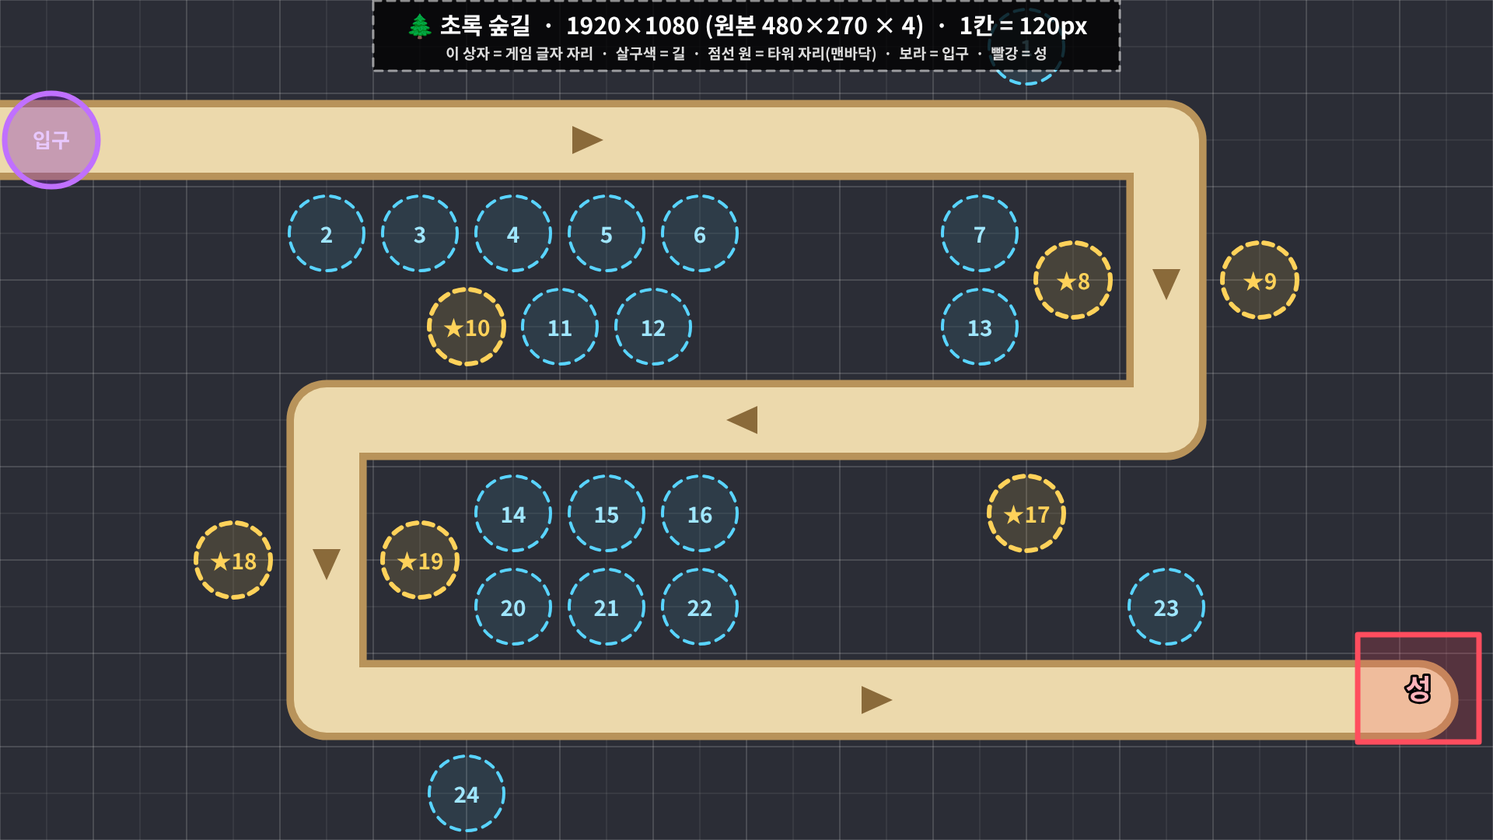
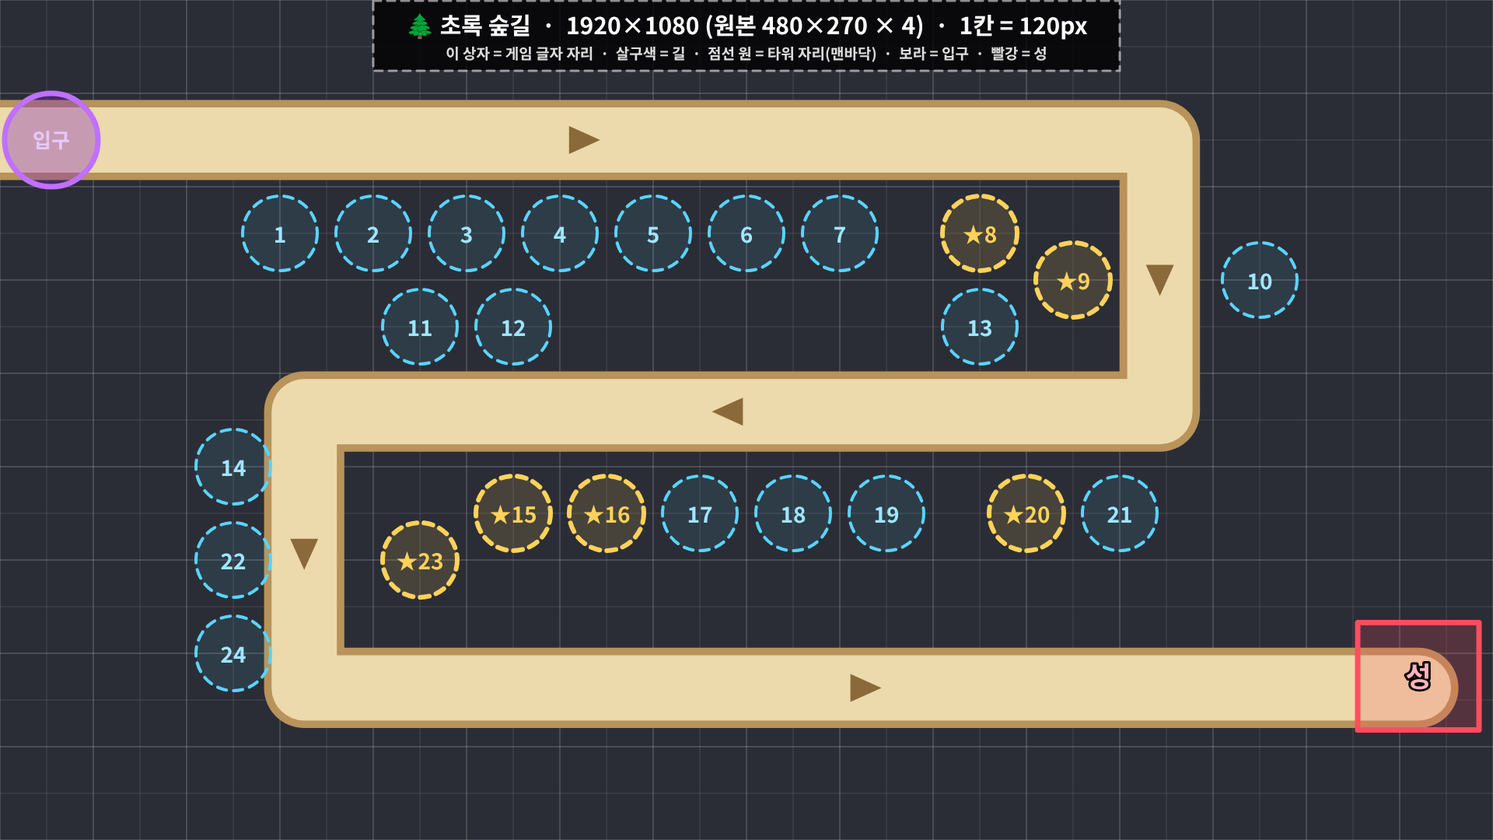
🏰 v0.9.14.1 타워 디펜스 지도 그림 5장: 그림 배경(manifest td) · 글자를 그림 속 어두운 상자 안에 · 숲길 길 좌표를 그림에 맞춤 · 글자 상자 · 성 · 입구 둘레엔 자리 안 만듦 · 폰 미니 지도도 그림 · 💎 결과 오기 전 지급 버그(이긴 판 1 → 3) · 저장 30초 확인
Claude-Session: https://claude.ai/code/session_014JJv1hHEwwWUnoDbUP4Pso

diff --git a/js/raid/td.js b/js/raid/td.js
@@ -171,21 +171,36 @@ DS.TD = (function () {
     const map = mapOf(f);
     el.innerHTML = `<div class="td-wrap"><div class="td-stage"><canvas class="td-bg"></canvas><div class="td-dom"></div><canvas class="td-fx"></canvas><div class="td-hud"></div><div class="td-big"></div></div></div>`;
     const h = { g: f.g, root: el.querySelector('.td-wrap'), map, el, R, f, mons: new Map(), tw: new Map(), cut: [], cutBusy: false };
-    h.stage = h.root.querySelector('.td-stage'); h.bg = h.root.querySelector('.td-bg'); h.fx = h.root.querySelector('.td-fx'); h.dom = h.root.querySelector('.td-dom'); h.hud = h.root.querySelector('.td-hud'); h.big = h.root.querySelector('.td-big');
-    const fit = () => { const W = el.clientWidth || 1280, Hh = el.clientHeight || 720, w = Math.min(W, Hh * 16 / 9); h.U = w / 16; h.stage.style.width = `${w}px`; h.stage.style.height = `${w * 9 / 16}px`; [h.bg, h.fx].forEach((c) => { c.width = Math.round(w); c.height = Math.round(w * 9 / 16); }); drawMap(h); h.tw.clear(); h.dom.innerHTML = ''; h.mons.clear(); };
+    h.stage = h.root.querySelector('.td-stage'); if (artOf(map)) h.stage.classList.add('td-art'); h.bg = h.root.querySelector('.td-bg'); h.fx = h.root.querySelector('.td-fx'); h.dom = h.root.querySelector('.td-dom'); h.hud = h.root.querySelector('.td-hud'); h.big = h.root.querySelector('.td-big');
+    const fit = () => { const W = el.clientWidth || 1280, Hh = el.clientHeight || 720, w = Math.min(W, Hh * 16 / 9); h.U = w / 16; h.stage.style.setProperty('--u', `${h.U}px`); h.stage.style.width = `${w}px`; h.stage.style.height = `${w * 9 / 16}px`; [h.bg, h.fx].forEach((c) => { c.width = Math.round(w); c.height = Math.round(w * 9 / 16); }); drawMap(h); h.tw.clear(); h.dom.innerHTML = ''; h.mons.clear(); };
     h.fit = fit; fit(); window.addEventListener('resize', () => { if (H === h) fit(); });
     return h;
   }
-  function drawMap(h, slotsOn = true) {
+  // 지도 그림 (2026-11-06 · assets/manifest.js td): 있으면 그림 위에 자리만 · 없으면 단색 + 이모지
+  const artOf = (m) => { const A = (typeof DS !== 'undefined' && DS.ASSETS) || {}, src = (A.td || {})[m.id]; return src ? (A.base || '') + src : null; };
+  const IMG = {};
+  function artImg(m, onload) {
+    const u = artOf(m); if (!u || typeof Image === 'undefined') return null;
+    let im = IMG[u]; if (!im) { im = IMG[u] = new Image(); im.src = u; }
+    if (!im.complete || !im.naturalWidth) { im.addEventListener('load', onload, { once: true }); return null; }
+    return im;
+  }
+  function drawMap(h, slotsOn = h.slotsOn != null ? h.slotsOn : true) {
+    h.slotsOn = slotsOn;
     const g = h.bg.getContext('2d'), U = h.U, m = h.map, th = m.theme, W = h.bg.width, Hh = h.bg.height;
+    g.textAlign = 'center'; g.textBaseline = 'middle';
+    const im = artImg(m, () => { if (H === h) drawMap(h, h.slotsOn); });
+    if (im) { g.imageSmoothingEnabled = true; g.drawImage(im, 0, 0, W, Hh); } else drawPlain(h, g, U, m, th, W, Hh);
+    if (slotsOn) M().slots(m).forEach((p) => { g.beginPath(); g.arc(p.x * U, p.y * U, U * (p.star ? 0.36 : 0.3), 0, 7); g.fillStyle = '#0008'; g.fill(); g.strokeStyle = p.star ? '#ffd25a' : '#ffffff88'; g.lineWidth = U * (p.star ? 0.06 : 0.035); g.stroke(); g.fillStyle = p.star ? '#ffd25a' : '#fff'; g.font = `bold ${U * 0.26}px sans-serif`; g.fillText(p.star ? `★${p.no}` : p.no, p.x * U, p.y * U + 1); });
+  }
+  function drawPlain(h, g, U, m, th, W, Hh) {
     const gr = g.createLinearGradient(0, 0, W, Hh); gr.addColorStop(0, th.bg[0]); gr.addColorStop(1, th.bg[1]); g.fillStyle = gr; g.fillRect(0, 0, W, Hh);
-    const R = rng(m.id); g.textAlign = 'center'; g.textBaseline = 'middle';
+    const R = rng(m.id);
     for (let i = 0; i < 60; i++) { const x = R() * 16, y = R() * 9; if (M().dPath(m, x, y) < 1.4 || M().slots(m).some((p) => Math.hypot(p.x - x, p.y - y) < 0.8)) continue; g.font = `${U * (0.35 + R() * 0.25)}px serif`; g.globalAlpha = 0.8; g.fillText(i % 3 ? th.deco : th.deco2, x * U, y * U); }
     g.globalAlpha = 1; g.lineJoin = 'round'; g.lineCap = 'round';
     m.paths.forEach((p) => { g.beginPath(); p.forEach(([x, y], i) => (i ? g.lineTo(x * U, y * U) : g.moveTo(x * U, y * U))); g.strokeStyle = th.edge; g.lineWidth = U * 0.86; g.stroke(); g.strokeStyle = th.path; g.lineWidth = U * 0.7; g.stroke(); });
     M().starts(m).forEach(([x, y]) => { const cx = Math.max(0.5, Math.min(15.5, x)) * U, cy = Math.max(0.5, Math.min(8.5, y)) * U; g.fillStyle = '#000c'; g.beginPath(); g.arc(cx, cy, U * 0.45, 0, 7); g.fill(); g.strokeStyle = '#a020f0'; g.lineWidth = U * 0.07; g.stroke(); g.font = `${U * 0.5}px serif`; g.fillText('🌀', cx, cy); });
     const [ex, ey] = M().end(m); g.font = `${U * 1.05}px serif`; g.fillText('🏰', ex * U, ey * U - U * 0.15);
-    if (slotsOn) M().slots(m).forEach((p) => { g.beginPath(); g.arc(p.x * U, p.y * U, U * (p.star ? 0.36 : 0.3), 0, 7); g.fillStyle = '#0008'; g.fill(); g.strokeStyle = p.star ? '#ffd25a' : '#ffffff88'; g.lineWidth = U * (p.star ? 0.06 : 0.035); g.stroke(); g.fillStyle = p.star ? '#ffd25a' : '#fff'; g.font = `bold ${U * 0.26}px sans-serif`; g.fillText(p.star ? `★${p.no}` : p.no, p.x * U, p.y * U + 1); });
   }
   const pos = (h, x, y) => `left:${x * h.U}px;top:${y * h.U}px`;
   function pickHall() {
@@ -288,8 +303,9 @@ DS.TD = (function () {
   let PH = null;
   function miniMap(map, picks, R, me, mine) {
     const sl = M().slots(map), u = 22, W = 16 * u, Hh = 9 * u;
-    return `<svg viewBox="0 0 ${W} ${Hh}" class="td-mini"><rect width="${W}" height="${Hh}" fill="${map.theme.bg[0]}"/>${map.paths.map((p) => `<polyline points="${p.map(([x, y]) => `${x * u},${y * u}`).join(' ')}" fill="none" stroke="${map.theme.path}" stroke-width="${u * 0.7}" stroke-linejoin="round" stroke-linecap="round"/>`).join('')}
-      <text x="${M().end(map)[0] * u}" y="${M().end(map)[1] * u + 6}" font-size="20" text-anchor="middle">🏰</text>
+    const art = artOf(map);
+    return `<svg viewBox="0 0 ${W} ${Hh}" class="td-mini"><rect width="${W}" height="${Hh}" fill="${map.theme.bg[0]}"/>${art ? `<image href="${esc(art)}" x="0" y="0" width="${W}" height="${Hh}" preserveAspectRatio="none"/>` : `${map.paths.map((p) => `<polyline points="${p.map(([x, y]) => `${x * u},${y * u}`).join(' ')}" fill="none" stroke="${map.theme.path}" stroke-width="${u * 0.7}" stroke-linejoin="round" stroke-linecap="round"/>`).join('')}
+      <text x="${M().end(map)[0] * u}" y="${M().end(map)[1] * u + 6}" font-size="20" text-anchor="middle">🏰</text>`}
       ${sl.map((p) => { const who = picks[p.no], isMe = who === me; return `<g data-slot="${p.no}" class="${who ? 'taken' : 'free'}${isMe ? ' me' : ''}"><circle cx="${p.x * u}" cy="${p.y * u}" r="${p.star ? 10 : 8.5}" fill="${isMe ? '#3c8a5a' : who ? '#444' : '#000a'}" stroke="${p.star ? '#ffd25a' : '#fff9'}" stroke-width="${p.star ? 2.5 : 1.4}"/><text x="${p.x * u}" y="${p.y * u + 3.5}" font-size="9" text-anchor="middle" fill="${p.star ? '#ffd25a' : '#fff'}" font-weight="700">${isMe ? '나' : who ? '✖' : p.no}</text></g>`; }).join('')}</svg>`;
   }
   async function myStats(R, me) { const p = (R.players || {})[me] || {}; let lv = 3; if (DS.Grow && p.cls != null && p.num) { const g = await DS.Grow.mine({ c: p.cls, n: p.num }).catch(() => null); if (g && g.lv) lv = g.lv; } return { lv, enh: Number(p.enh) || 0, hero: Number(p.hero) || 0, fx: p.fx || 'flame' }; }
@@ -338,7 +354,9 @@ DS.TD = (function () {
   const paid = {};
   function phoneEnd(body, R, me, code, f) {
     const r = f.res || {}, L = ((R.tdl || {})[f.g]) || {}, inIt = twOf(f).some((t) => t.u === me), p = (R.players || {})[me] || {};
-    if (inIt && DS.Gem && !paid[f.g] && p.cls != null && p.num) { paid[f.g] = true; const m = { c: p.cls, n: p.num }, key = `td_${kst()}`; let k = 0; const pay = () => DS.Gem.add(m, r.win ? 3 : 1, key, '🏰 타워 디펜스', { free: true }).catch(() => 0).then(async () => { const d = await DS.Gem.mine(m).catch(() => ({})); if (!((d.log || {})[key]) && ++k < 3) setTimeout(pay, 2000); }); pay(); } // 하루 첫 판만 (같은 날 키) · 저장됐는지 다시 읽어 확인
+    if (f.phase !== 'end' || typeof r.win !== 'boolean') { body.innerHTML = '<div class="panel framed td-ph"><p class="td-ph-h">🏰 결과 계산 중…</p></div>'; return; } // 결과(res)가 오기 전엔 보상 · 화면 미룸
+    const gem = r.win ? 3 : 1;
+    if (inIt && DS.Gem && !paid[f.g] && p.cls != null && p.num) { paid[f.g] = true; const m = { c: p.cls, n: p.num }, key = `td_${kst()}`; let k = 0; const pay = () => DS.Gem.add(m, gem, key, '🏰 타워 디펜스', { free: true, upsert: true }).catch(() => 0).then(async () => { const d = await DS.Gem.mine(m).catch(() => ({})); const ok = (((d.log || {})[key] || {}).g || 0) >= gem; if (++k < 6) setTimeout(ok ? check : pay, 1500 * k); }); const check = () => DS.Gem.mine(m).catch(() => ({})).then((d) => { if ((((d.log || {})[key] || {}).g || 0) < gem) pay(); else if (++k < 6) setTimeout(check, 1500 * k); }); pay(); } // 하루 💎 최대 3 (같은 날 키 · 진 뒤 이긴 판은 3 까지 채움) · 저장됐는지 30초 동안 다시 읽어 확인 (없으면 다시 씀)
     body.innerHTML = `<div class="panel framed td-ph td-end ${r.win ? 'win' : 'lose'}"><h2>${r.win ? '🏆 승리! 성을 지켰어요' : '💥 아쉽게 졌어요'}</h2>${inIt ? `<p>내 처치 <b>${(L.kills || {})[me] || 0}</b>마리 · ⭐ ${(L.stars || {})[me] || 0}</p>` : ''}
       <p class="td-top3">${arr(r.top).map((x, i) => `<span>${['🥇', '🥈', '🥉'][i]} ${esc(((R.players || {})[x[0]] || {}).nick || '')} ${x[1]}</span>`).join(' ')}</p><p class="muted small">💎 ${r.win ? 3 : 1} (오늘 첫 판만) · 키운 레벨 · 강화 · 스킬이 곧 타워의 힘!</p></div>`;
   }

diff --git a/js/raid/td-maps.js b/js/raid/td-maps.js
@@ -7,7 +7,7 @@ window.DS = window.DS || {};
 DS.TDMaps = (function () {
   const MAPS = [
     { id: 'forest', name: '🌲 초록 숲길', desc: '기본 S자 길 · 꺾인 곳 명당이 고르게', theme: { bg: ['#1f4a2a', '#2f6b3a'], path: '#b08a52', edge: '#6b4f2a', deco: '🌲', deco2: '🍄' }, tile: 'wind',
-      paths: [[[0, 1.5], [12.5, 1.5], [12.5, 4.5], [3.5, 4.5], [3.5, 7.5], [15.2, 7.5]]] },
+      paths: [[[0, 1.5], [12.43, 1.5], [12.43, 4.41], [3.26, 4.41], [3.26, 7.37], [15.2, 7.37]]] }, // 2026-11-06 그림(td-forest-v1)의 길 가운데에 맞춤
     { id: 'volcano', name: '🌋 용암 두 갈래', desc: '가운데서 길이 둘로 갈라졌다 다시 만남 · 나눠 지켜야 함', theme: { bg: ['#3a1410', '#5a2014'], path: '#3a2a26', edge: '#ff6a1a', deco: '🔥', deco2: '🪨' }, tile: 'fire',
       paths: [[[0, 4.5], [4, 4.5], [5.5, 1.6], [10.5, 1.6], [12, 4.5], [15.2, 4.5]], [[0, 4.5], [4, 4.5], [5.5, 7.4], [10.5, 7.4], [12, 4.5], [15.2, 4.5]]] },
     { id: 'ice', name: '❄ 얼음 소용돌이', desc: '나선을 따라 가운데 성으로 · 가운데 칸은 여러 바퀴를 때림', theme: { bg: ['#14304a', '#1f4a6b'], path: '#cfe8f7', edge: '#7fb8e0', deco: '❄', deco2: '🧊' }, tile: 'frost',
@@ -23,11 +23,16 @@ DS.TDMaps = (function () {
   const dPath = (m, x, y) => Math.min(...segs(m).map((s) => dSeg(x, y, s)));
   // 사거리 안에 들어오는 길 길이 (0.1칸 단위로 샘)
   function cover(m, x, y, r = RANGE) { let n = 0; segs(m).forEach(([a, b]) => { const L = Math.hypot(b[0] - a[0], b[1] - a[1]), k = Math.max(1, Math.round(L / 0.1)); for (let i = 0; i <= k; i++) { const t = i / k; if (Math.hypot(x - (a[0] + t * (b[0] - a[0])), y - (a[1] + t * (b[1] - a[1]))) <= r) n++; } }); return n / 10; }
+  // 자리로 못 쓰는 곳 (2026-11-06 지도 그림): 가운데 위 글자 상자(HUD · 가로 3.6~12.4칸 · 세로 1.1칸 위) · 성 그림 둘레 · 입구(🌀) 그림 둘레
+  const HUD = [3.6, 12.4, 1.1];
+  const blocked = (x, y, ex, ey, st) => (x > HUD[0] && x < HUD[1] && y < HUD[2]) || (Math.abs(x - ex) < 1.1 && y > ey - 1.6 && y < ey + 0.9)
+    || st.some(([sx, sy]) => Math.abs(x - Math.max(0.5, Math.min(W - 0.5, sx))) < 1.0 && Math.abs(y - Math.max(0.5, Math.min(H - 0.5, sy))) < 1.15);
   // 자리 뽑기: 0.5칸 격자 중 길에서 0.75~1.25칸 · 서로 1칸 이상 · 길을 많이 덮는 곳부터
   function slots(m) {
     if (m._slots) return m._slots;
     const cand = [];
-    for (let x = 0.5; x <= W - 0.5; x += 0.5) for (let y = 0.5; y <= H - 0.5; y += 0.5) { const d = dPath(m, x, y); if (d >= 0.75 && d <= 1.25) cand.push({ x, y, c: cover(m, x, y) }); }
+    const [ex, ey] = end(m), st = starts(m);
+    for (let x = 0.5; x <= W - 0.5; x += 0.5) for (let y = 0.5; y <= H - 0.5; y += 0.5) { const d = dPath(m, x, y); if (d >= 0.75 && d <= 1.25 && !blocked(x, y, ex, ey, st)) cand.push({ x, y, c: cover(m, x, y) }); }
     cand.sort((a, b) => b.c - a.c || a.x - b.x || a.y - b.y);
     const out = [];
     // 고르게 퍼지도록: 먼저 덮는 양이 많은 순으로 뽑되 서로 1.1칸 이상

diff --git a/assets/manifest.js b/assets/manifest.js
@@ -80,6 +80,9 @@ DS.ASSETS = {
   trophy: 'trophy-v1.webp', // 클리어 · 수업 끝 트로피 (사용자 제공, 투명 배경)
   note: { src: 'note-icons-v1.webp', cell: 128, names: ['x', 'none', 'ok', 'fill', 'star', 'badge', 'done', 'book'] }, // 📕 오답노트 아이콘 (v0.9.7.9 · 사용자 생성): 틀림 · 안 풂 · 맞힘 · 보충 · 도전 별 · 알림 배지(숫자는 코드) · 노트 완성 · 오답노트 책
   fun: { bg: 'fun-arena-v1.webp', plat: 'fun-plat-v2.webp', platFrames: 2, bgRev: 'fun-dorm-v1.webp', bgOx: null }, // bgRev = 🔄 반대로 「침대 숙소」(그림 오기 전엔 CSS) · bgOx = ⭕ OX 전용(없으면 bg 를 얼음빛으로) // ⚖ 밸런스 게임 「무너지는 두 갈래 다리」 (v0.9.7.7): bg = 배경 1920×1080 · plat = 발판(투명) — 그림이 오기 전엔 null → CSS 로 그림
+  // 🏰 타워 디펜스 지도 배경 (2026-11-06 사용자 그림 · 1672×941 · 템플릿 assets/templates/td · docs/ASSET-SPEC.md 6-11): 지도 id → 그림. 없으면 코드가 단색 + 이모지로 그림
+  //   그림 위 가운데 어두운 상자(가로 4~12칸 · 세로 0~0.75칸) = 종합실 글자 자리 (css .td-art .td-top) · 그 둘레와 성 둘레엔 자리를 안 만듦 (td-maps.js blocked)
+  td: { forest: 'td-forest-v1.webp', volcano: 'td-volcano-v1.webp', ice: 'td-ice-v1.webp', desert: 'td-desert-v1.webp', crypt: 'td-crypt-v1.webp' },
   dportals: { bonus: 'dportal-bonus-v1.webp', mid: 'dportal-mid-v1.webp', big: 'dportal-big-v1.webp' },
   citadel: { room: 'citadel-room-v1.webp', boss: 'citadel-boss-v1.webp' }, // 🏰 성채던전 안 전투 배경 (2026-11-05 사용자 제공): room = 일반 방 · boss = 보스 방 (중단원 12번 · 대단원 17번) — 성채던전 개편(묶음 A) 때 연결
   fields: { forest: 'field-forest-v1.webp', lava: 'field-lava-v1.webp', ice: 'field-ice-v1.webp' }, // 전투 배경 (달빛 숲 유적 · 화산 대장간 · 빙결 신전)

diff --git a/css/style.css b/css/style.css
@@ -2264,6 +2264,9 @@ body.tb-last-min::after { content: ''; position: fixed; inset: 0; z-index: 88; p
 .td-top { display: inline-flex; gap: 14px; align-items: center; margin-top: 6px; padding: 6px 16px; border-radius: 12px; background: #000b; border: 2px solid #fff3; font-size: clamp(14px, 1.6vw, 26px); font-weight: 800; color: #fff; }
 .td-top .td-sec { color: #ffd25a; font-size: 1.3em; } .td-life b { color: #ff8a95; } .td-cheer { color: #ffd25a; } .td-tile { color: #ffd25a; font-size: 0.85em; }
 .td-desc { display: inline-block; margin: 4px 0 0; padding: 2px 10px; border-radius: 8px; background: #0008; color: #dfe7f5; font-size: clamp(12px, 1.1vw, 18px); }
+/* 🏰 지도 그림이 있을 때 (2026-11-06): 글자를 그림 안 어두운 상자(가로 4~12칸 · 세로 0~0.75칸)에 넣음 · --u = 1칸 px */
+.td-art .td-top { position: absolute; left: calc(var(--u) * 4); width: calc(var(--u) * 8); top: 0; height: calc(var(--u) * 0.75); margin: 0; box-sizing: border-box; padding: 0 calc(var(--u) * 0.15); justify-content: center; flex-wrap: wrap; gap: 0 calc(var(--u) * 0.18); background: none; border: 0; border-radius: 0; font-size: calc(var(--u) * 0.19); line-height: 1.25; }
+.td-art .td-desc { margin-top: calc(var(--u) * 0.8); font-size: calc(var(--u) * 0.15); }
 .td-pk, .td-tw { position: absolute; transform: translate(-50%, -62%); display: flex; flex-direction: column; align-items: center; pointer-events: none; }
 .td-pk b, .td-tw b { font-size: clamp(10px, 0.95vw, 16px); color: #fff; text-shadow: 0 0 3px #000, 0 0 3px #000; white-space: nowrap; }
 .td-tw .art, .td-pk .art { transform: scale(0.8); }

diff --git a/tools/e2e/e2e73.js b/tools/e2e/e2e73.js
@@ -58,7 +58,8 @@ const OUT = process.argv[2] || '.', U = 'http://localhost:8765/index.html?local'
   for (let k = 0; k < 150; k++) { await H.waitForTimeout(1000); f = await H.evaluate(async (c) => DS.Net.get(`rooms/${c}/fun`), code); if (f && f.phase === 'end') break; }
   const live = await H.evaluate(async ([c, g]) => DS.Net.get(`rooms/${c}/tdl/${g}`), [code, f.g]);
   await H.waitForTimeout(1200); await H.screenshot({ path: `${OUT}/73-5-tv-end.png` });
-  await S1.waitForTimeout(6000); await S1.screenshot({ path: `${OUT}/73-6-phone-end.png` });
+  await S1.waitForTimeout(3000); await S1.screenshot({ path: `${OUT}/73-6-phone-end.png` });
+  for (let k = 0; k < 30; k++) { const ok = await S1.evaluate(async () => { const d = (await DS.Gem.mine({ c: '1-3', n: 1 })) || {}; return Object.keys(d.log || {}).some((x) => x.startsWith('td_')); }); if (ok) break; await S1.waitForTimeout(1000); } // 체험 모드 DB 는 페이지끼리 덮어쓸 수 있어 폰이 다시 쓰기를 기다림
   await S1.evaluate(() => { window.__con = []; }); 
   const gem = await S1.evaluate(async () => { const d = (await DS.Gem.mine({ c: '1-3', n: 1 })) || {}; return Object.entries(d.log || {}).filter(([k]) => k.startsWith('td_')).map(([, v]) => v.g); });
   P('💎 기록 열쇠: ' + JSON.stringify(await S1.evaluate(async () => { const d = (await DS.Gem.mine({ c: '1-3', n: 1 })) || {}; return { keys: Object.keys(d.log || {}), total: d.total, endView: !!document.querySelector('.td-ph.td-end'), me: DS.Net.uid() }; })));

diff --git a/sw.js b/sw.js
@@ -4,7 +4,7 @@
 //  - v0.9.6 차시별 다운로드: STATIC = 공통 그림만. 던전 배경 · 포털 · 몬스터는 그 차시에 들어갈 때 받고(DS.Art.lessonEnter), 지금 · 바로 전 차시 것만 남긴다
 //  - Firebase(다른 주소)는 건드리지 않는다. 수업 진행에는 인터넷이 필요하다
 // 새 버전을 낼 때 CACHE 이름을 'ds-' + DS.VERSION 과 맞춘다 (tests/pwa.test.js 가 확인)
-const CACHE = 'ds-citadel-0.9.14.0';
+const CACHE = 'ds-citadel-0.9.14.1';
 const ASSETS = 'ds-assets';
 const CORE = [
   './', './index.html', './css/style.css', './manifest.webmanifest',

diff --git a/js/config.js b/js/config.js
@@ -10,7 +10,7 @@ DS.FIREBASE = {
   messagingSenderId: '434932944226',
   appId: '1:434932944226:web:0763464faf9dde9639b03b',
 };
-DS.VERSION = 'citadel-0.9.14.0';
+DS.VERSION = 'citadel-0.9.14.1';
 DS.AUTHOR = '김찬우'; // 개발자 (2026-11-03 사용자 요청: 모든 화면 · 첫 화면에 새김)
 // 버전 꼬리표 (2026-11-03): 어느 화면에서든 왼쪽 아래 구석에 작게 — 학생 · 교사 · 전광판 화면에서 업데이트 됐는지 바로 확인
 if (typeof document !== 'undefined') {

diff --git a/docs/NEXT-ROOM.md b/docs/NEXT-ROOM.md
@@ -8,7 +8,7 @@
 |---|---|
 | 배포된 판 (main · GitHub Pages) | **v0.9.13.0** (4ec5d0e · 2026-11-07 새벽 · 사용자 「배포」) — 🌱 1단계 성장 (⚡ 필살기 Ⅲ · 🌟 진필살기 석화 · 🔥 끈기 · 💎 경제 · 📜 · 🔨 강화 · 📷 도장) + 📷 단계별 칭찬 · 방마다 2장 · 하루 6장 · 30초 · ⚠ 경고. 그 전: v0.9.12.0 (41a2612) |
 | 방 나눔 (2026-11-06) | **코드 고침 · 커밋 · 푸시 · 배포 = 이 방 하나** · 옆 「모두의 던전 샵4 지침 공유」 방 = 저장소 읽기 전용 → 정한 것은 바로 DECISIONS · NEXT-ROOM 에 적고 커밋마다 hero-v2 푸시 · `claude/dungeon-shop4-guidelines-npvsjw` 브랜치 = 그 방이 읽으려고 만든 것 (hero-v2 에 합치지 않음) |
-| 배포 대기 (hero-v2) | **v0.9.14.0** — 🏰 5분 타워 디펜스 (쉼터 놀이 · 지도 5종 · 판 안 업그레이드 · 선생님 방패/응원 · 자동 난이도) · **Firebase 규칙 추가(tdp · tdm · tdu · tdt · tdl) → 배포 때 게시** · 👉 사용자: Apps Script Code.gs 다시 붙여넣기 → 새 버전 (사진 채점 너그러운 지침 · 한도) · 🎨 TD 지도 배경 템플릿 5장 전달(ASSET-SPEC 6-11) · 옆방 용사 추가 에셋과 함께 한 번에 도착 예정 → 도착하면 manifest 등록 + 지도 그리기를 그림으로 · 다음 = 🧛 5분 생존 대결 → 2단계(⭐ 본보기 · 퀘스트 · 🤝 짝 도우미) |
+| 배포 대기 (hero-v2) | **v0.9.14.1** — 🏰 5분 타워 디펜스 (쉼터 놀이 · 지도 5종 · 판 안 업그레이드 · 선생님 방패/응원 · 자동 난이도) · **Firebase 규칙 추가(tdp · tdm · tdu · tdt · tdl) → 배포 때 게시** · 👉 사용자: Apps Script Code.gs 다시 붙여넣기 → 새 버전 (사진 채점 너그러운 지침 · 한도) · 🎨 TD 지도 그림 5장 도착 · 넣음 (v0.9.14.1 · `td-*-v1.webp` · 글자는 그림 속 어두운 상자 안 · 숲길 길 좌표를 그림에 맞춤 · 글자 상자 · 성 · 입구 둘레엔 자리 안 만듦) · 💎 결과 오기 전에 주던 버그 고침(이긴 판도 1 → 3) · 옆방 용사 추가 에셋 기다림 · 다음 = 🧛 5분 생존 대결 → 2단계(⭐ 본보기 · 퀘스트 · 🤝 짝 도우미) |
 | 📷 사진 채점 (2026-11-06) | 게임 쪽 구현 끝 (`js/raid/photo.js` · `bonus.js` · `lessons/rubrics.js`) · 중계소 `tools/apps-script/photo-grade.gs` = 학교 **BAZE 게이트웨이** Claude 형식 주소 · `claude-haiku-5-5` · 실제 시험 5장 모두 기대대로 (1장 ≈ 1원) · **2026-11-06 밤: Apps Script 설치 · `checkSetup` ✅ Firebase · ✅ Claude · 웹 앱 배포 끝** → 웹 앱 주소는 Firebase `gcfg/photo.url` 에 저장(저장소에 안 씀) · 기준표 7개 올림(켠 방 = 1층 07 · 11) · **배포 뒤 켬(on:true)** → 교사 폰 「🔌 연결 확인」 ✅ 연결됨 · 중계소 켜짐 (2026-11-06) → 남은 일: 진짜 손글씨 20장 시범 · 설계 `docs/PHOTO-PREP.md` |
 | Firebase 규칙 | **0.9.12.0 판 게시 완료 (2026-11-06 · 사용자 「규칙 올려줘」 → 서비스 계정으로 게시 · 서버와 파일 일치 확인)** — fb(의견) · act(활용 추이) · photo · photo_rubric · photo_q · gcfg/photo · 게시 전 서버 규칙과 비교: 추가만 · 빠진 것 없음 |
 | 미배포 판을 낼 때 | 수업 직전 금지 (점심 12:50~14:00 · 방과후 권장). 절차는 6절 |

diff --git a/docs/DECISIONS.md b/docs/DECISIONS.md
@@ -755,8 +755,8 @@
 | 🧙 선생님 | 성 옆 전용 타워 (반 평균 레벨) · 🛡 수호 방패 (한 판 1번 · 3마리 막음) · ✨ 응원 (웨이브마다 · 5초 속도 +20%) — 리모컨 단추 |
 | 기술 | 학생 한 판 1번 · 주변 광역 ×3 · Ⅲ↑ 필살기 ×5 (컷인) · 특화 Ⅳ 진필살기 = 모든 몬스터 3초 석화 |
 | 난이도 | 시작 때 TV 가 이 반 · 이 지도로 미리 돌려 보고 몬스터 체력을 정함 (경계 × 지도별 계수) → `tests/td.test.js` 지도 5종 평균 이길 확률 65~87% (확정안 ≈ 70%) · 5명 이하면 몬스터 수도 줄임 · 3분 45초 안에 끝 |
-| 보상 | 승리 💎3 · 패배 💎1 · 모두 같게 · 하루 첫 판 (`td_날짜`) · 처치 TOP 3 칭찬 |
+| 보상 | 승리 💎3 · 패배 💎1 · 모두 같게 · 하루 💎 최대 3 (`td_날짜` · 진 뒤 이기면 3 까지 채움 · 2026-11-06) · 처치 TOP 3 칭찬 |
 | 데이터 | `fun` (kind td) · `tdp` 자리 · `tdm` 내 능력치 · `tdu` 업그레이드 · `tdt` 기술 · `tdl` TV 실황 → Firebase 규칙 추가 (배포 때 게시) |
 | 시험 | `tests/td.test.js` (균형 · 약 1분 20초) · `tools/e2e/e2e73.js` (교사 · TV · 학생 3명 전 과정) |
-| 남은 것 | 길 지도 도트 그림 (지금은 코드로 그린 길) · 실제 반 반응 보고 계수 조정 |
+| 남은 것 | ~~길 지도 도트 그림~~ (2026-11-06 사용자 그림 5장 넣음 · `assets/manifest.js` td) · 실제 반 반응 보고 계수 조정 |
 

diff --git a/docs/ASSET-SPEC.md b/docs/ASSET-SPEC.md
@@ -328,6 +328,7 @@ Order (left to right, top to bottom):
 | 장식 | 길과 자리에서 떨어진 빈 곳에만 (지도마다 아래 소재) |
 | 금지 | 글자 · 숫자 · 격자 · 점선 원 · 화살표 · 사람 · 몬스터 · 탑 |
 | 보낼 파일 | `td-forest.png` · `td-volcano.png` · `td-ice.png` · `td-desert.png` · `td-crypt.png` → 드라이브 「07 에셋 원본」 → Claude 에게 「에셋 도착」 |
+| **✅ 2026-11-06 도착 · 넣음 (v0.9.14.1)** | 5장 `td-*-v1.webp` (1672×941). 겹쳐 보기로 길 확인 → 숲길만 아래쪽 길이 0.1~0.24칸 어긋나 길 좌표를 그림에 맞춤. 그림 속 어두운 상자 = 종합실 글자 자리 (css `.td-art .td-top`). 글자 상자 · 성 · 입구 둘레엔 자리를 안 만듦 (`td-maps.js` blocked) → 템플릿도 새 자리로 다시 만듦 |
 
 ```
 [STYLE BIBLE above — backgrounds: no outline, dithering allowed]
